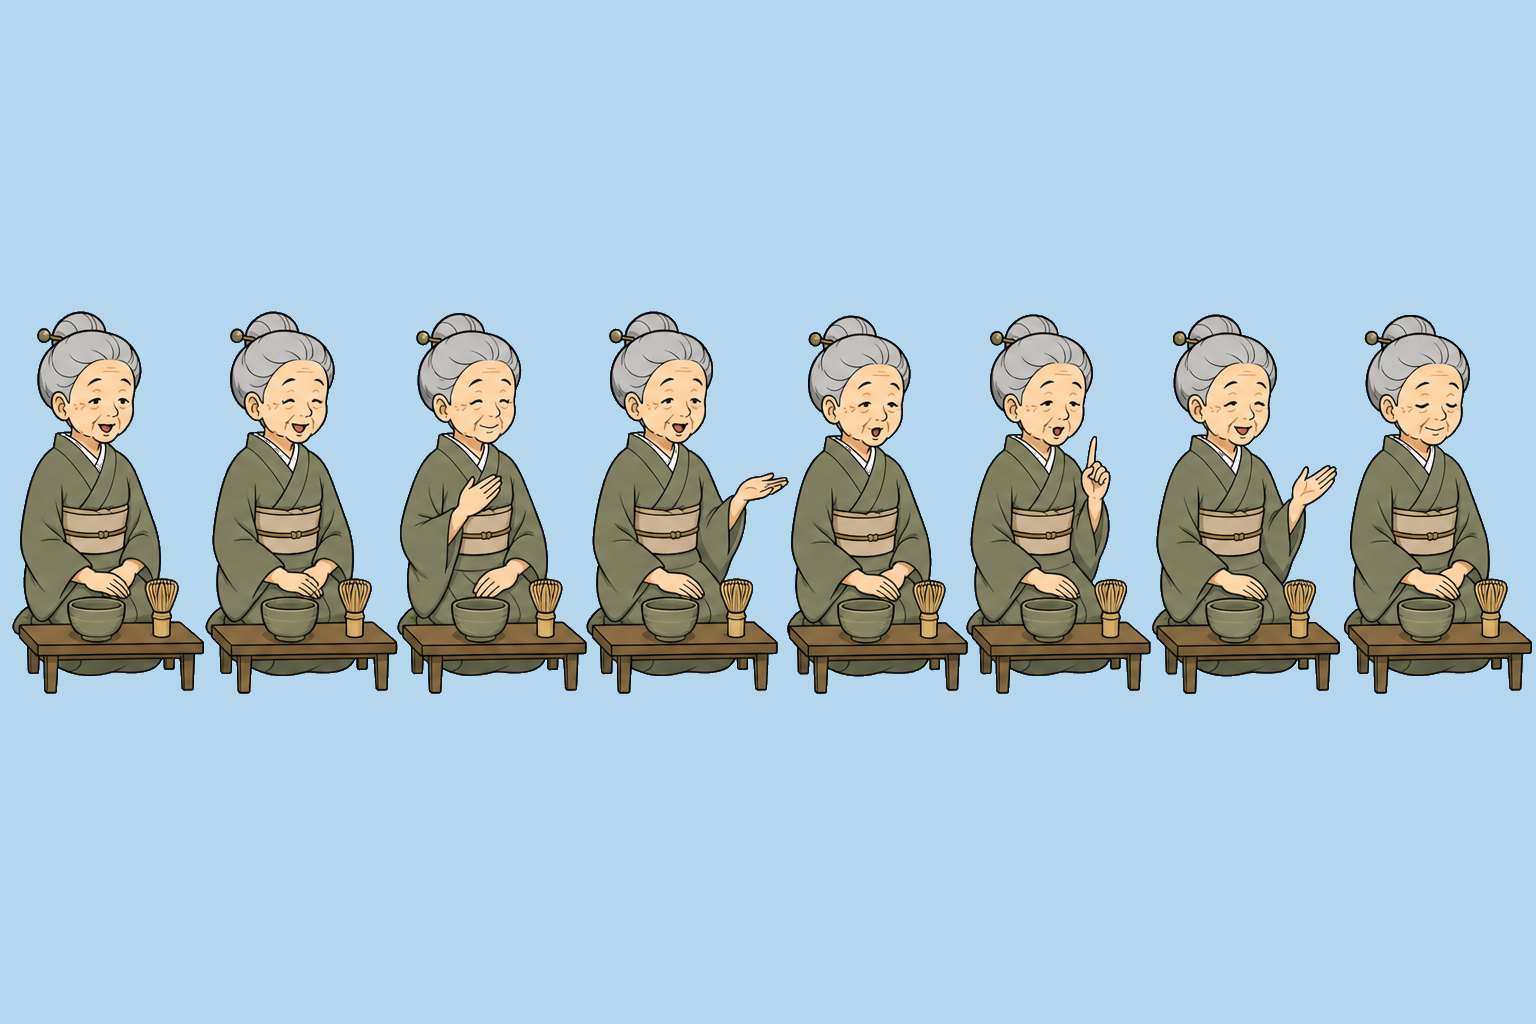
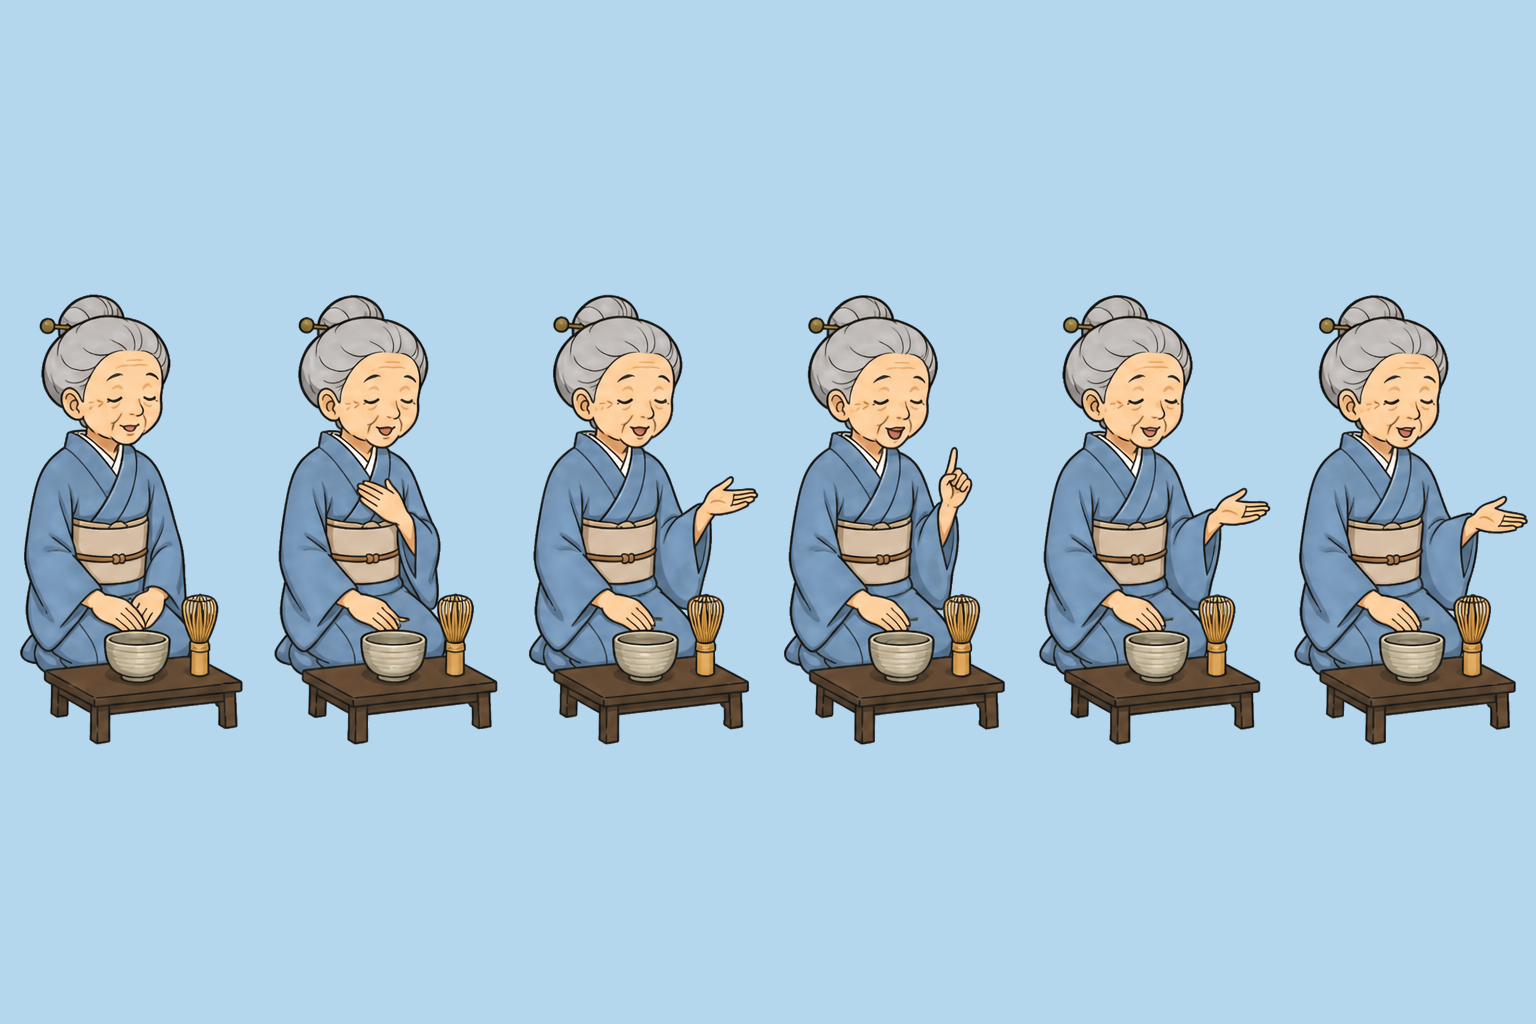
new japan animations

Changed region(s): [[0.0, 0.2812, 1.0, 0.75]]

diff --git a/tools/jitter_audit/main.go b/tools/jitter_audit/main.go
@@ -32,7 +32,8 @@ var sheets = []sheet{
 	{"PP idle back", "assets/images/player/PP idle back.png", 8, 2, -1},
 	{"PP talk front", "assets/images/player/PP talk front.png", 8, 2, -1},
 	{"PP talk side", "assets/images/player/PP talk side.png", 8, 2, -1},
-	{"PP grab", "assets/images/player/PP grab.png", 8, 2, -1},
+	{"PP sleeping", "assets/images/player/pp_sleeping.png", 8, 1, -1},
+	{"PP waking", "assets/images/player/pp_waking.png", 8, 1, -1},
 	{"PP receive map", "assets/images/player/PP receive map.png", 4, 2, -1},
 	{"PP grab flower", "assets/images/player/PP grab flower.png", 6, 1, -1},
 	{"PP grab rolling pin", "assets/images/player/PP grab rolling pin.png", 6, 1, -1},
@@ -104,6 +105,7 @@ var sheets = []sheet{
 	{"Pierre talk split", "assets/images/locations/paris/npc/outside/npc_pierre_talk.png", 8, 1, -1},
 	{"Pigeon lady idle", "assets/images/locations/paris/npc/outside/npc_pigeon_lady_idle.png", 8, 1, -1},
 	{"Pigeon lady give", "assets/images/locations/paris/npc/outside/npc_pigeon_lady_give.png", 8, 1, -1},
+	{"Pigeon lady receive heel", "assets/images/locations/paris/npc/outside/npc_pigeon_lady_receive_heel.png", 6, 1, -1},
 	{"Claude idle (security_guard row0)", "assets/images/locations/paris/npc/outside/npc_security_guard.png", 6, 2, 0},
 	{"Claude talk (security_guard row1)", "assets/images/locations/paris/npc/outside/npc_security_guard.png", 6, 2, 1},
 	{"Nicolas idle (row0)", "assets/images/locations/paris/npc/outside/npc_press_photographer.png", 8, 2, 0},
@@ -200,12 +202,17 @@ var sheets = []sheet{
 	{"Oba-chan idle", "assets/images/locations/japan/npc/npc_obachan_idle.png", 8, 1, -1},
 	{"Oba-chan talk", "assets/images/locations/japan/npc/npc_obachan_talk.png", 8, 1, -1},
 	{"Oba-chan receive ramen", "assets/images/locations/japan/npc/npc_obachan_receive_ramen.png", 6, 1, -1},
-	{"Tea Master idle", "assets/images/locations/japan/npc/npc_tea_master_idle.png", 8, 1, -1},
-	{"Tea Master talk", "assets/images/locations/japan/npc/npc_tea_master_talk.png", 8, 1, -1},
+	{"Tea Master idle", "assets/images/locations/japan/npc/npc_tea_master_idle.png", 6, 1, -1},
+	{"Tea Master talk", "assets/images/locations/japan/npc/npc_tea_master_talk.png", 6, 1, -1},
 	{"Kenji idle", "assets/images/locations/japan/npc/npc_kenji_idle.png", 8, 1, -1},
 	{"Kenji brush menu", "assets/images/locations/japan/npc/npc_kenji_brush_menu.png", 8, 1, -1},
 	{"Takeshi idle", "assets/images/locations/japan/npc/npc_takeshi_idle.png", 8, 1, -1},
 	{"Takeshi talk", "assets/images/locations/japan/npc/npc_takeshi_talk.png", 8, 1, -1},
+	{"Takeshi open doors", "assets/images/locations/japan/npc/npc_takeshi_open_doors.png", 8, 1, -1},
+	{"Takeshi close doors", "assets/images/locations/japan/npc/npc_takeshi_close_doors.png", 8, 1, -1},
+	{"Takeshi cherry tale", "assets/images/locations/japan/npc/npc_takeshi_talk_cherry.png", 8, 1, -1},
+	{"Takeshi cat tale", "assets/images/locations/japan/npc/npc_takeshi_talk_cat.png", 8, 1, -1},
+	{"Takeshi gates tale", "assets/images/locations/japan/npc/npc_takeshi_talk_gates.png", 8, 1, -1},
 	{"Leaf fall (3f)", "assets/images/locations/japan/props/leaf_fall.png", 3, 1, -1},
 	{"Ramen line squat", "assets/images/locations/japan/props/npc_ramen_local_squat.png", 8, 1, -1},
 	{"Ramen line salaryman", "assets/images/locations/japan/props/npc_ramen_wait_salaryman.png", 8, 1, -1},
@@ -218,8 +225,10 @@ var sheets = []sheet{
 	{"PP tea ceremony", "assets/images/player/PP_tea_ceremony.png", 8, 1, -1},
 	{"PP sit idle", "assets/images/player/PP_sit_idle.png", 8, 1, -1},
 	{"PP sit talk", "assets/images/player/PP_sit_talk.png", 8, 1, -1},
+	{"PP sit drink", "assets/images/player/PP_sit_drink.png", 8, 1, -1},
 	{"PP sit to stand", "assets/images/player/PP_sit_to_stand.png", 6, 1, -1},
 	{"PP sakura selfie", "assets/images/player/pp_sakura_selfie.png", 8, 1, -1},
+	{"PP pick sakura", "assets/images/player/pp_pick_sakura.png", 8, 1, -1},
 	{"PP receive ramen", "assets/images/player/pp_get_ramen.png", 6, 1, -1},
 	{"PP give ramen", "assets/images/player/pp_give_ramen.png", 6, 1, -1},
 	{"Higgins front walk", "assets/images/locations/camp/npc/higgins/npc_director_front_walk.png", 8, 1, -1},
@@ -238,6 +247,8 @@ var sheets = []sheet{
 	{"Prayer crowd 2", "assets/images/locations/jerusalem/props/people_pray2.png", 6, 1, -1},
 	{"Hiro counter idle", "assets/images/locations/japan/npc/npc_hiro_counter_idle.png", 6, 1, -1},
 	{"Hiro counter talk", "assets/images/locations/japan/npc/npc_hiro_counter_talk.png", 6, 1, -1},
+	{"Hiro counter work", "assets/images/locations/japan/npc/npc_hiro_counter_work.png", 6, 1, -1},
+	{"Hiro counter give", "assets/images/locations/japan/npc/npc_hiro_counter_give.png", 6, 1, -1},
 	{"Kenji talk", "assets/images/locations/japan/npc/npc_kenji_talk.png", 8, 1, -1},
 	{"Kenji give charm", "assets/images/locations/japan/npc/npc_kenji_give_charm.png", 8, 1, -1},
 	// ---- 2026-07-24 generated batch ----

diff --git a/game/player.go b/game/player.go
@@ -390,23 +390,14 @@ func newPlayer(renderer *sdl.Renderer) *player {
 			*ns.dst = gridFrames(renderer, path, 8, 1)
 		}
 	}
-	// User 2026-05-12: swapped from "PP grab flower.png" (square 128×128
-	// cells) to the canonical "PP grab.png" (portrait 172×384 cells). The
-	// square cells made the grab anim render shorter than idle inside the
-	// 245×340 bounds - full size now matches idle. PP grab.png shows the
-	// same crouch-and-rise cycle with a flower in the last frames.
-	p.grabFrames = gridFrames(renderer, "assets/images/player/PP grab.png", 8, 2)
-
-	// 2026-07-18 (user #1): PP celebrate.png + PP sneak examine.png were
-	// deleted from disk — react/showInv/examine fall back to the grab frames
-	// (their states barely appear in play) instead of warning every startup.
-	p.reactFrames = p.grabFrames
-	if len(p.grabFrames) >= 2 {
-		p.showInvFrames = p.grabFrames[0:2]
-	}
-	p.examineFrames = p.grabFrames
-	// 2026-07-18 (user): PP sneak use.png removed — same fallback as examine.
-	p.useItemFrames = p.grabFrames
+	// 2026-07-31 (user): "PP grab.png" is RETIRED and its loader with it —
+	// every beat that used to fall back to it has dedicated art now
+	// (grab_flower, grab_rolling_pin, grab_basket, grab_pencil_pot,
+	// write_note, put_note, and jump_back for the biker flinch), and nothing
+	// plays the generic "grab" one-shot or enters the grabbing/using/
+	// examining/show-inventory states. grabFrames + react/examine/useItem/
+	// showInv therefore stay empty; the `len(p.grabFrames) > 0` guards below
+	// and the action-state draw paths are inert no-ops as a result.
 
 	// One-shot named animations for sequence playback. receive_map drives
 	// the give-map handoff so PP visibly takes the map from Higgins instead
@@ -414,15 +405,27 @@ func newPlayer(renderer *sdl.Renderer) *player {
 	// flower floor item at the lake is picked up (and re-used when handing
 	// it over to Lily).
 	p.oneShotAnims = map[string][]spriteFrame{}
-	// 2026-07-27 (user: "speak and drink tea when needed"): the landed
-	// PP_sit_talk.png is really TWO beats on one sheet — frames 1-2 kneeling
-	// talk, frames 3-8 a full lift→sip→lower drink arc. Slice it: the talk
-	// loop keeps only the mouth beats (drinking mid-sentence read as random),
-	// and the drink arc becomes the `sit_drink` one-shot the tea ceremony
-	// plays at the shared-sip moment.
-	if len(p.seatedTalk) == 8 {
+	// 2026-07-27 (user: "speak and drink tea when needed"): the drink arc.
+	// 2026-07-29: a DEDICATED PP_sit_drink.png is queued with the re-rolled
+	// seat set (§PP-TEA-SEAT-SET) — prefer it. Until it lands, the OLD
+	// combined PP_sit_talk.png is sliced: frames 1-2 kneeling talk loop,
+	// frames 3-8 the lift→sip→lower drink arc (drinking mid-sentence read
+	// as random). The new set must land TOGETHER so a pure-talk overwrite
+	// is never mis-sliced.
+	if path := firstExisting("assets/images/player/PP_sit_drink.png"); path != "" {
+		if f := gridFrames(renderer, path, 8, 1); len(f) > 0 {
+			p.oneShotAnims["sit_drink"] = f
+		}
+	} else if len(p.seatedTalk) == 8 {
 		p.oneShotAnims["sit_drink"] = p.seatedTalk[2:8]
 		p.seatedTalk = p.seatedTalk[0:2]
+	}
+	// §PP-PICK-SAKURA (2026-07-29): the grove pick — PP reaches UP into the
+	// branches, picks one blossom, pockets it. Falls back to grab_flower.
+	if path := firstExisting("assets/images/player/pp_pick_sakura.png"); path != "" {
+		if f := gridFramesConnected(renderer, path, 8, 1); len(f) > 0 {
+			p.oneShotAnims["pick_sakura"] = f
+		}
 	}
 	// The spin→sit TRANSFORM: PP standing → fast spin into the tea clothes →
 	// drops into a kneel (ends seated). No-op until the art lands.

diff --git a/engine/grid_content_test.go b/engine/grid_content_test.go
@@ -22,7 +22,8 @@ var realSheetCases = []sheetCase{
 	{"../assets/images/player/PP walk left.png", 8, 1},
 	{"../assets/images/player/PP talk front.png", 8, 2},
 	{"../assets/images/player/PP talk side.png", 8, 2},
-	{"../assets/images/player/PP grab.png", 8, 2},
+	{"../assets/images/player/pp_sleeping.png", 8, 1},
+	{"../assets/images/player/pp_waking.png", 8, 1},
 
 	{"../assets/images/player/PP receive map.png", 4, 2},
 	{"../assets/images/player/PP grab flower.png", 6, 1},
@@ -120,6 +121,7 @@ var realSheetCases = []sheetCase{
 	{"../assets/images/locations/paris/npc/outside/npc_pierre_talk.png", 8, 1},
 	{"../assets/images/locations/paris/npc/outside/npc_pigeon_lady_idle.png", 8, 1},
 	{"../assets/images/locations/paris/npc/outside/npc_pigeon_lady_give.png", 8, 1},
+	{"../assets/images/locations/paris/npc/outside/npc_pigeon_lady_receive_heel.png", 6, 1},
 	{"../assets/images/locations/paris/npc/outside/npc_security_guard.png", 6, 2},
 	{"../assets/images/locations/paris/npc/outside/npc_press_photographer.png", 8, 2},
 	{"../assets/images/locations/paris/npc/outside/npc_press_photographer_idle.png", 8, 1},
@@ -198,16 +200,23 @@ var realSheetCases = []sheetCase{
 	{"../assets/images/locations/japan/npc/npc_obachan_idle.png", 8, 1},
 	{"../assets/images/locations/japan/npc/npc_obachan_talk.png", 8, 1},
 	{"../assets/images/locations/japan/npc/npc_obachan_receive_ramen.png", 6, 1},
-	{"../assets/images/locations/japan/npc/npc_tea_master_idle.png", 8, 1},
-	{"../assets/images/locations/japan/npc/npc_tea_master_talk.png", 8, 1},
+	{"../assets/images/locations/japan/npc/npc_tea_master_idle.png", 6, 1},
+	{"../assets/images/locations/japan/npc/npc_tea_master_talk.png", 6, 1},
 	{"../assets/images/locations/japan/npc/npc_kenji_idle.png", 8, 1},
 	{"../assets/images/locations/japan/npc/npc_kenji_talk.png", 8, 1},
 	{"../assets/images/locations/japan/npc/npc_kenji_give_charm.png", 8, 1},
 	{"../assets/images/locations/japan/npc/npc_kenji_brush_menu.png", 8, 1},
 	{"../assets/images/locations/japan/npc/npc_takeshi_idle.png", 8, 1},
 	{"../assets/images/locations/japan/npc/npc_takeshi_talk.png", 8, 1},
+	{"../assets/images/locations/japan/npc/npc_takeshi_open_doors.png", 8, 1},
+	{"../assets/images/locations/japan/npc/npc_takeshi_close_doors.png", 8, 1},
+	{"../assets/images/locations/japan/npc/npc_takeshi_talk_cherry.png", 8, 1},
+	{"../assets/images/locations/japan/npc/npc_takeshi_talk_cat.png", 8, 1},
+	{"../assets/images/locations/japan/npc/npc_takeshi_talk_gates.png", 8, 1},
 	{"../assets/images/locations/japan/npc/npc_hiro_counter_idle.png", 6, 1},
 	{"../assets/images/locations/japan/npc/npc_hiro_counter_talk.png", 6, 1},
+	{"../assets/images/locations/japan/npc/npc_hiro_counter_work.png", 6, 1},
+	{"../assets/images/locations/japan/npc/npc_hiro_counter_give.png", 6, 1},
 	{"../assets/images/locations/japan/props/leaf_fall.png", 3, 1},
 	{"../assets/images/locations/japan/props/npc_ramen_local_squat.png", 8, 1},
 	{"../assets/images/locations/japan/props/npc_ramen_wait_salaryman.png", 8, 1},
@@ -220,8 +229,10 @@ var realSheetCases = []sheetCase{
 	{"../assets/images/player/PP_tea_ceremony.png", 8, 1},
 	{"../assets/images/player/PP_sit_idle.png", 8, 1},
 	{"../assets/images/player/PP_sit_talk.png", 8, 1},
+	{"../assets/images/player/PP_sit_drink.png", 8, 1},
 	{"../assets/images/player/PP_sit_to_stand.png", 6, 1},
 	{"../assets/images/player/pp_sakura_selfie.png", 8, 1},
+	{"../assets/images/player/pp_pick_sakura.png", 8, 1},
 	{"../assets/images/player/pp_get_ramen.png", 6, 1},
 	{"../assets/images/player/pp_give_ramen.png", 6, 1},
 	{"../assets/images/locations/camp/npc/higgins/npc_director_front_walk.png", 8, 1},

diff --git a/game/tokyo.go b/game/tokyo.go
@@ -374,26 +374,20 @@ func newTakeshi(renderer *sdl.Renderer) *npc {
 }
 
 func newTeaMaster(renderer *sdl.Renderer) *npc {
-	// The tea master is a woman. npc_tea_master_talk.png is the canonical
-	// (female, flat-cartoon) sheet. Prefer a matching female idle when present;
-	// fall back to the talk sheet for the idle until the regen lands (§TEA-MASTER-IDLE).
-	// 2026-07-26 PR #6 (jitter): her cells hold the kneeling figure PLUS a
-	// separate standing whisk and floating motion marks (jitter_audit: GHOST
-	// PIECES in 4 idle cells), so the content-gap cutter sliced a different
-	// boundary every frame and the anchors wobbled. The EQUAL-cell loader
-	// (the office-Higgins "blink" fix) keeps the consistent in-cell placement,
-	// and the anchor deadband then holds her still.
-	loadEqual := func(cands ...string) []npcFrame {
+	// The regenerated blue tea-master sheets are dedicated, cleanly separated
+	// 6x1 strips, so use the gap-aware cutter instead of clipping them to equal
+	// mathematical cells.
+	loadTeaMaster := func(cands ...string) []npcFrame {
 		if p := firstExisting(cands...); p != "" {
-			return loadNPCGridEqualConnectedTol(renderer, p, 8, 1, npcSpriteInset, 8)
+			return loadNPCGridConnected(renderer, p, 6, 1)
 		}
 		return nil
 	}
-	idle := loadEqual(jpNPCDir+"npc_tea_master_idle.png", jpNPCDir+"npc_tea_master_idle_f.png", jpNPCDir+"npc_tea_master_talk.png")
+	idle := loadTeaMaster(jpNPCDir+"npc_tea_master_idle.png", jpNPCDir+"npc_tea_master_idle_f.png", jpNPCDir+"npc_tea_master_talk.png")
 	if len(idle) == 0 {
 		idle = loadNPCGridRow(renderer, jpFbkVendor8x2, 8, 2, 0)
 	}
-	talk := loadEqual(jpNPCDir + "npc_tea_master_talk.png")
+	talk := loadTeaMaster(jpNPCDir + "npc_tea_master_talk.png")
 	if len(talk) == 0 {
 		talk = idle
 	}
@@ -665,6 +659,21 @@ func (g *Game) setupTokyoCallbacks() {
 						if work := loadNPCGridConnected(g.renderer, p, 6, 1); len(work) > 0 {
 							n.altIdleGrid = work
 							n.altIdleAfterSec = 6.0
+						}
+					}
+					// 2026-07-31: the landed counter GIVE sheet (ladles broth,
+					// tops the bowl, slides it forward) was on disk but wired
+					// to NOTHING, so the Fire-Striker → Offering Bowl trade
+					// animated on PP's side only. Registered under the
+					// auto-derived key AND the generic "give" so playHandOff
+					// finds it either way.
+					if p := firstExisting(jpNPCDir + "npc_hiro_counter_give.png"); p != "" {
+						if give := loadNPCGridConnected(g.renderer, p, 6, 1); len(give) > 0 {
+							if n.oneShotAnims == nil {
+								n.oneShotAnims = map[string][]npcFrame{}
+							}
+							n.oneShotAnims["give_offering_bowl"] = give
+							n.oneShotAnims["give"] = give
 						}
 					}
 				}

diff --git a/docs/EXTRA_PROMPTS.md b/docs/EXTRA_PROMPTS.md
@@ -170,59 +170,28 @@ it on sheets with legit separate objects: thrown map, handed items, pigeon).
 
 ## Open Prompts
 
-### §PP-SLEEP-WAKE-BLUE (user 2026-07-25: wake-up still shows white spots — enclosed pockets no key can fix on the white-bg originals)
-
-Two sheets, both 8×1, 1536×1024, flat `#B4D7EE`, PP + his BLUE blanket at
-the same size/anchor as today's sheets (attach `pp_waking.png` as the
-design lock — same blanket, same beats). The old sheets have PURE-WHITE
-muzzle/eye whites AND enclosed white pockets, so neither keying nor
-punching can save them — this re-roll fixes both (muzzle ivory `#F2EFE5`,
-eye sclera pale-grey `#C4C4C4`, zero pure white; the flat blue bg is
-globally keyed so the arm-loop pockets disappear).
-
-- `assets/images/player/pp_sleeping.png` (OVERWRITE): 8-frame breathing
-  loop — PP curled under the blue blanket by the campfire, chest rising
-  and falling gently, one ear twitch, tail tip curl. Loopable.
-- `assets/images/player/pp_waking.png` (OVERWRITE): 1 asleep under the
-  blanket · 2-3 sits up rubbing his eyes with both paws · 4 blinks over
-  the blanket edge · 5 pushes the blanket off · 6 rises to his feet,
-  still droopy · 7 big overhead stretch · 8 standing, awake. Ends in his
-  normal standing pose.
-
-### §MARGAUX-RECEIVE-HEEL (user 2026-07-25)
-
-`assets/images/locations/paris/npc/outside/npc_pigeon_lady_receive_heel.png`
-(NEW, 6×1, 1536×1024, flat `#B4D7EE`). Attach `npc_pigeon_lady_idle.png` as
-the design lock (same size/anchor). Madame Margaux TAKES the day-old
-baguette heel from PP (he stands to her RIGHT): 1 turns right, curious ·
-2 reaches out · 3 takes the heel two-handed (crust tan, never white) ·
-4 inspects it approvingly · 5 tucks it into her apron/bag · 6 back to her
-idle stance. ≥15px gaps, zero pure white, no separators, no extras. Wired
-(`receive_heel` on the heel hand-off) — auto-upgrades on landing.
-
-**Carried over (still open from earlier batches):**
-
-- **§WALL-PRAYER-BG** — `jerusalem/props/praying_man.png` (+ `_man2`,
-  moved from npc/wall/ 2026-07-24):
-  the lone Wall worshippers ship a baked limestone background; re-export
-  figures-only (flat `#B4D7EE`), shawl cream `#E5DDC8`, keep the 4-frame
-  from-behind sway. Low priority — they currently read OK parked at the
-  Wall's foot.
-
-- **§TEA-MASTER-BLUE-v2** — `npc_tea_master_idle.png` + `_talk.png` (6×1,
-  blue, figures fill ≥85% of the cell height — she renders tiny today):
-  idle: 1 kneels at the low table · 2 lifts the whisk · 3 whisks the bowl ·
-  4 sets whisk down · 5 turns the bowl a half-turn · 6 bows her head.
-  talk: same framing, 6 gentle talk poses with the bowl resting.
-- **§JP-HIRO-COUNTER** — `npc_hiro_counter_idle.png` + `_talk.png` (6×1,
-  blue, waist-cut bust, NO counter in the sprite, action at chest height):
-  idle: 1 wipes the counter · 2 stirs with the ladle · 3 tastes · 4 proud
-  nod · 5 slides a bowl forward · 6 rests paws down. talk: 6 talk poses
-  with ladle gestures. **Extended 2026-07-27 (story v2):** add a third
-  sheet `npc_hiro_counter_give.png` (6×1, same waist-cut framing) — Hiro
-  ladles broth into a bowl, tops it, and slides the steaming bowl forward
-  two-handed toward screen-left (the first-bowl-for-PP beat).
 ## Done log
+
+- **2026-07-31 — final prompt sweep (5 prompt groups / 8 sheets):**
+  §PP-TEA-SPIN-PAIR, §TAKESHI-TALK-CHERRY-v2,
+  §TAKESHI-TALK-GATES-v2, §JP-HIRO-COUNTER-IDLE-v2,
+  §PP-SLEEP-WAKE-BLUE and §MARGAUX-RECEIVE-HEEL landed. All sheets are
+  normalized to flat `#B4D7EE`, GAP-DETECTED at their runtime grids, and
+  clear the pure-white scan. The sleep/wake and Margaux receive sheets were
+  added to both audit manifests.
+
+- **2026-07-31 — Japan/tea art batch landed (7 prompts cleared):**
+  §JP-TAKESHI-DOORS (idle + open/close doors + all three tale cards),
+  §PP-TEA-SEAT-SET (spin-to-sit, sit idle/talk, the new sit-drink),
+  §TEA-MASTER-BLUE-v2, §JP-HIRO-COUNTER (idle/talk/work/give),
+  §PP-SAKURA-SELFIE-v2, §PP-PICK-SAKURA and §WALL-PRAYER-BG are all on
+  disk and wired (Takeshi's doors fire from onDialogStart/onDialogEnd with
+  the per-tale talk swap; counter-Hiro's four sheets load in
+  newRamenSeller). Three follow-ups from the playtest are re-queued above:
+  the spin pair must actually change his clothes, Takeshi's cherry + gates
+  talk sheets need the doors framing, and Hiro's counter idle must stop
+  offering the bowl.
+
 
 - **2026-07-28 — Japan story-v2 art batch:** completed
   §BAGEL-SELLER-REDESIGN, §JP-STREET-NOREN-CLEAR, §PP-SIT-TO-STAND,
